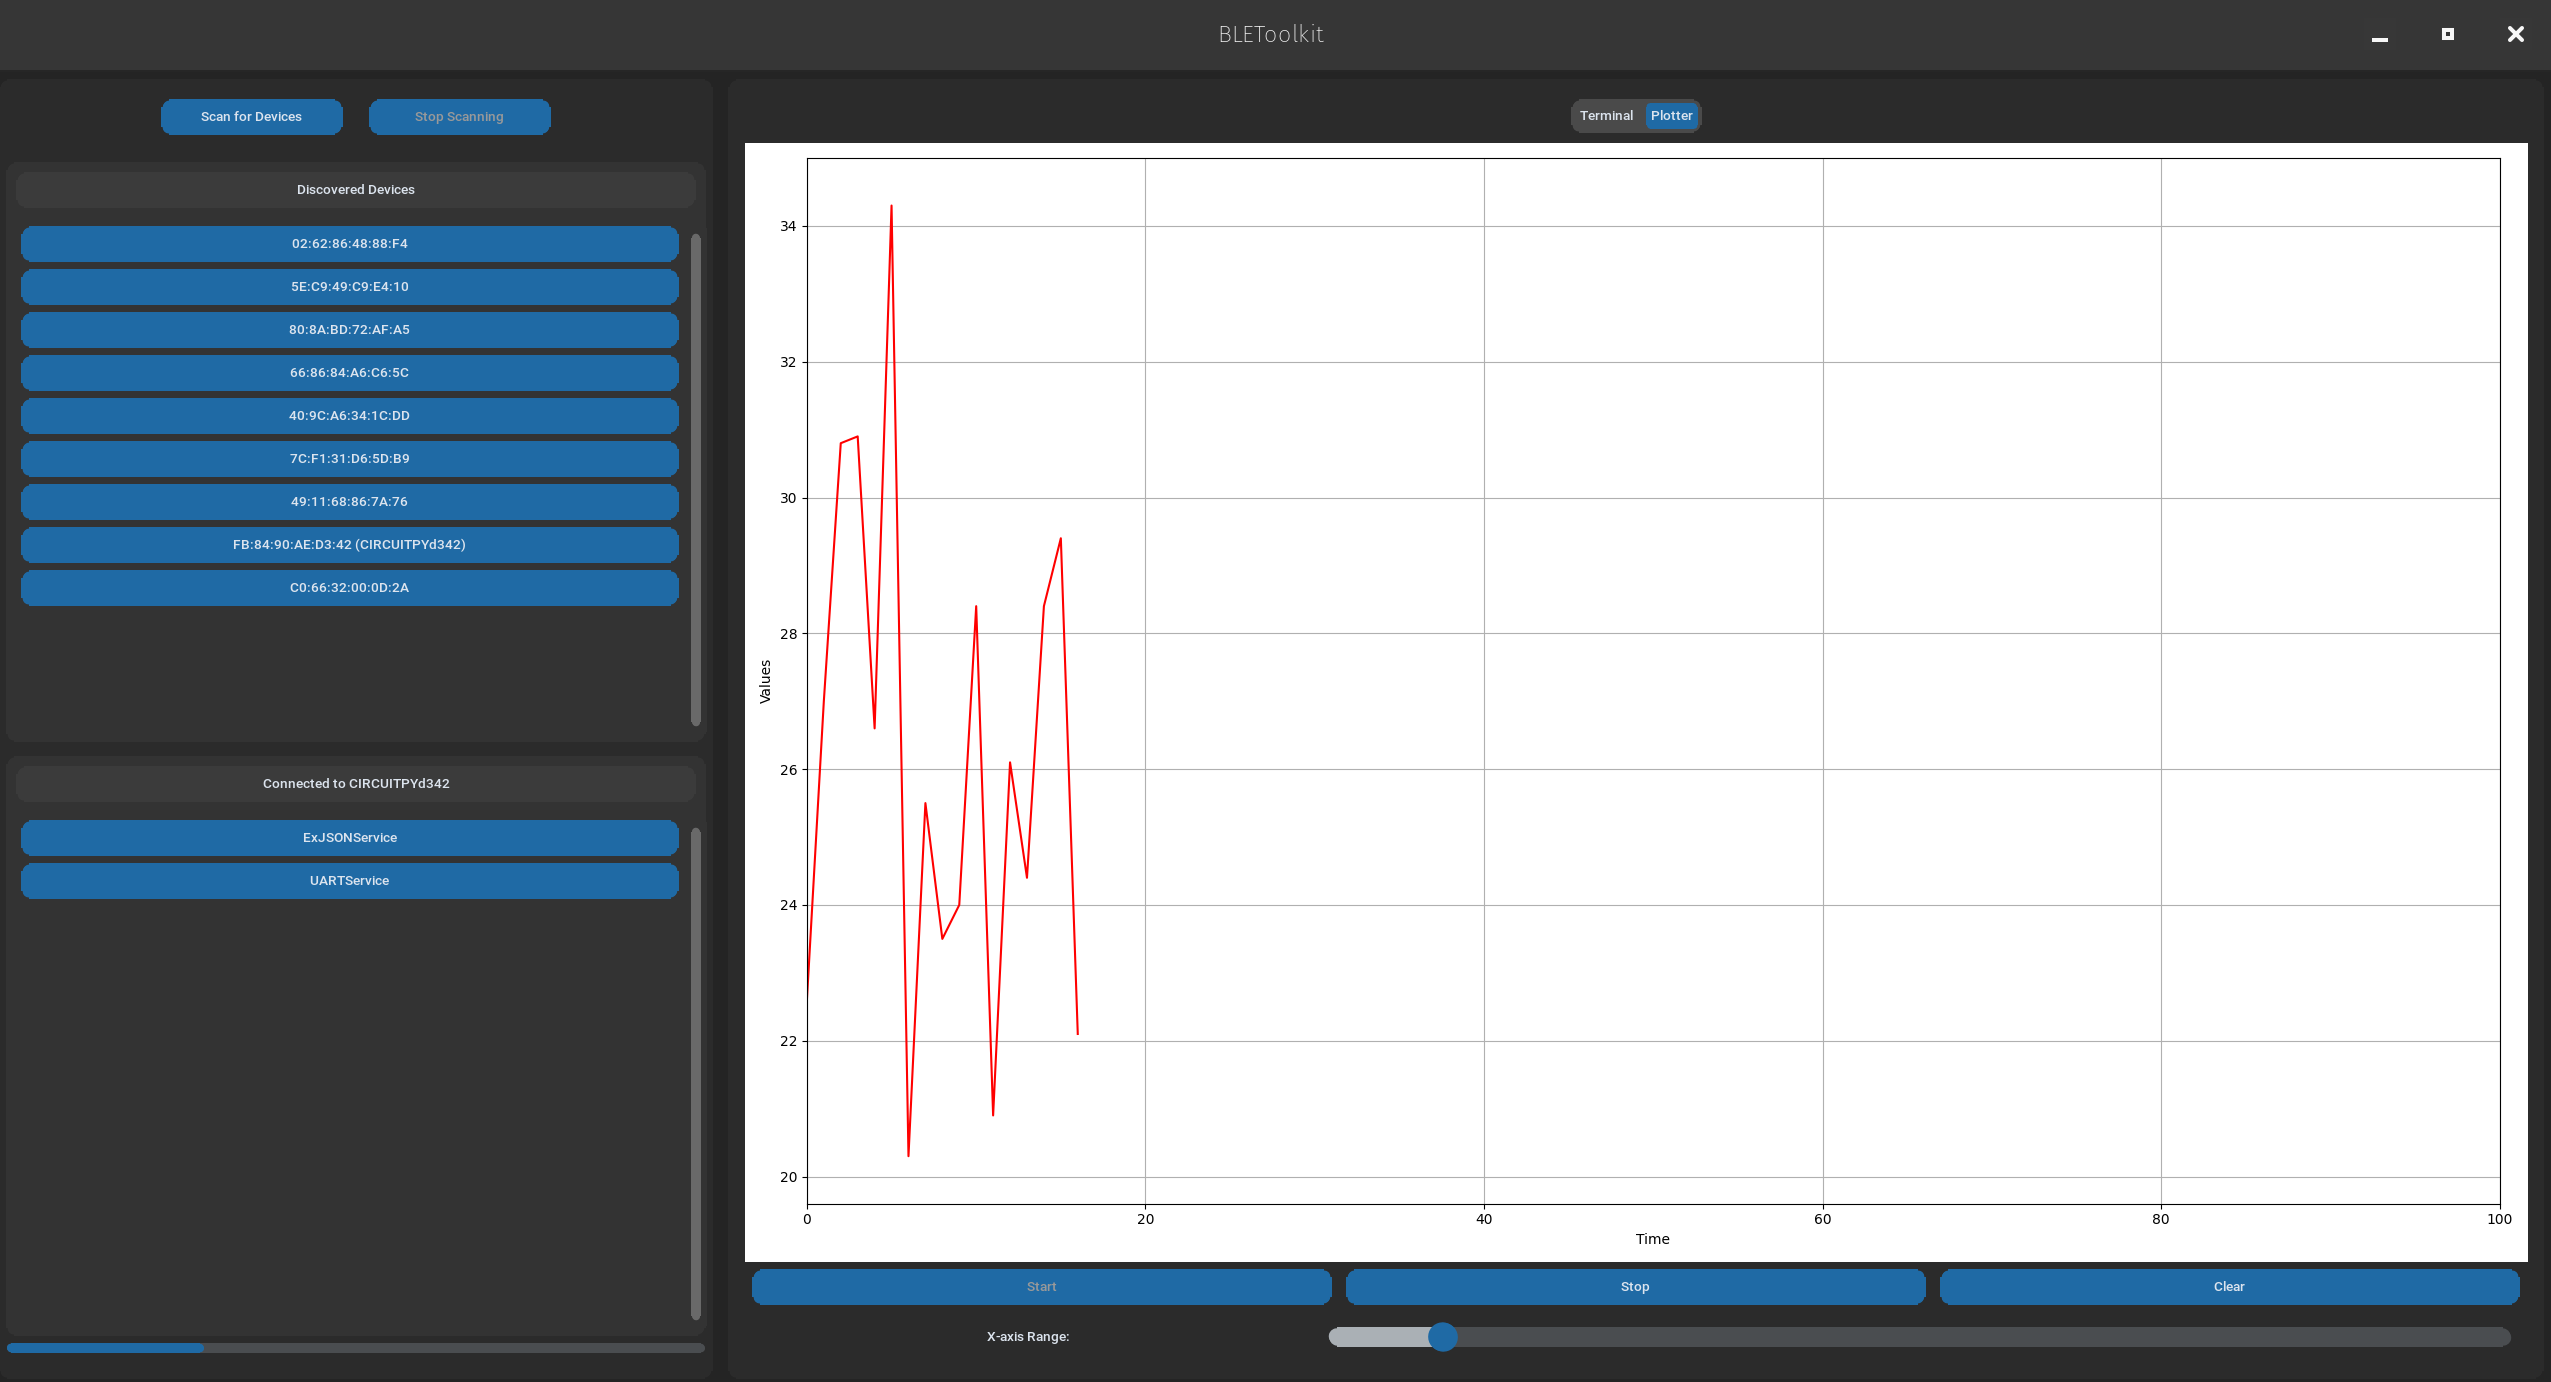
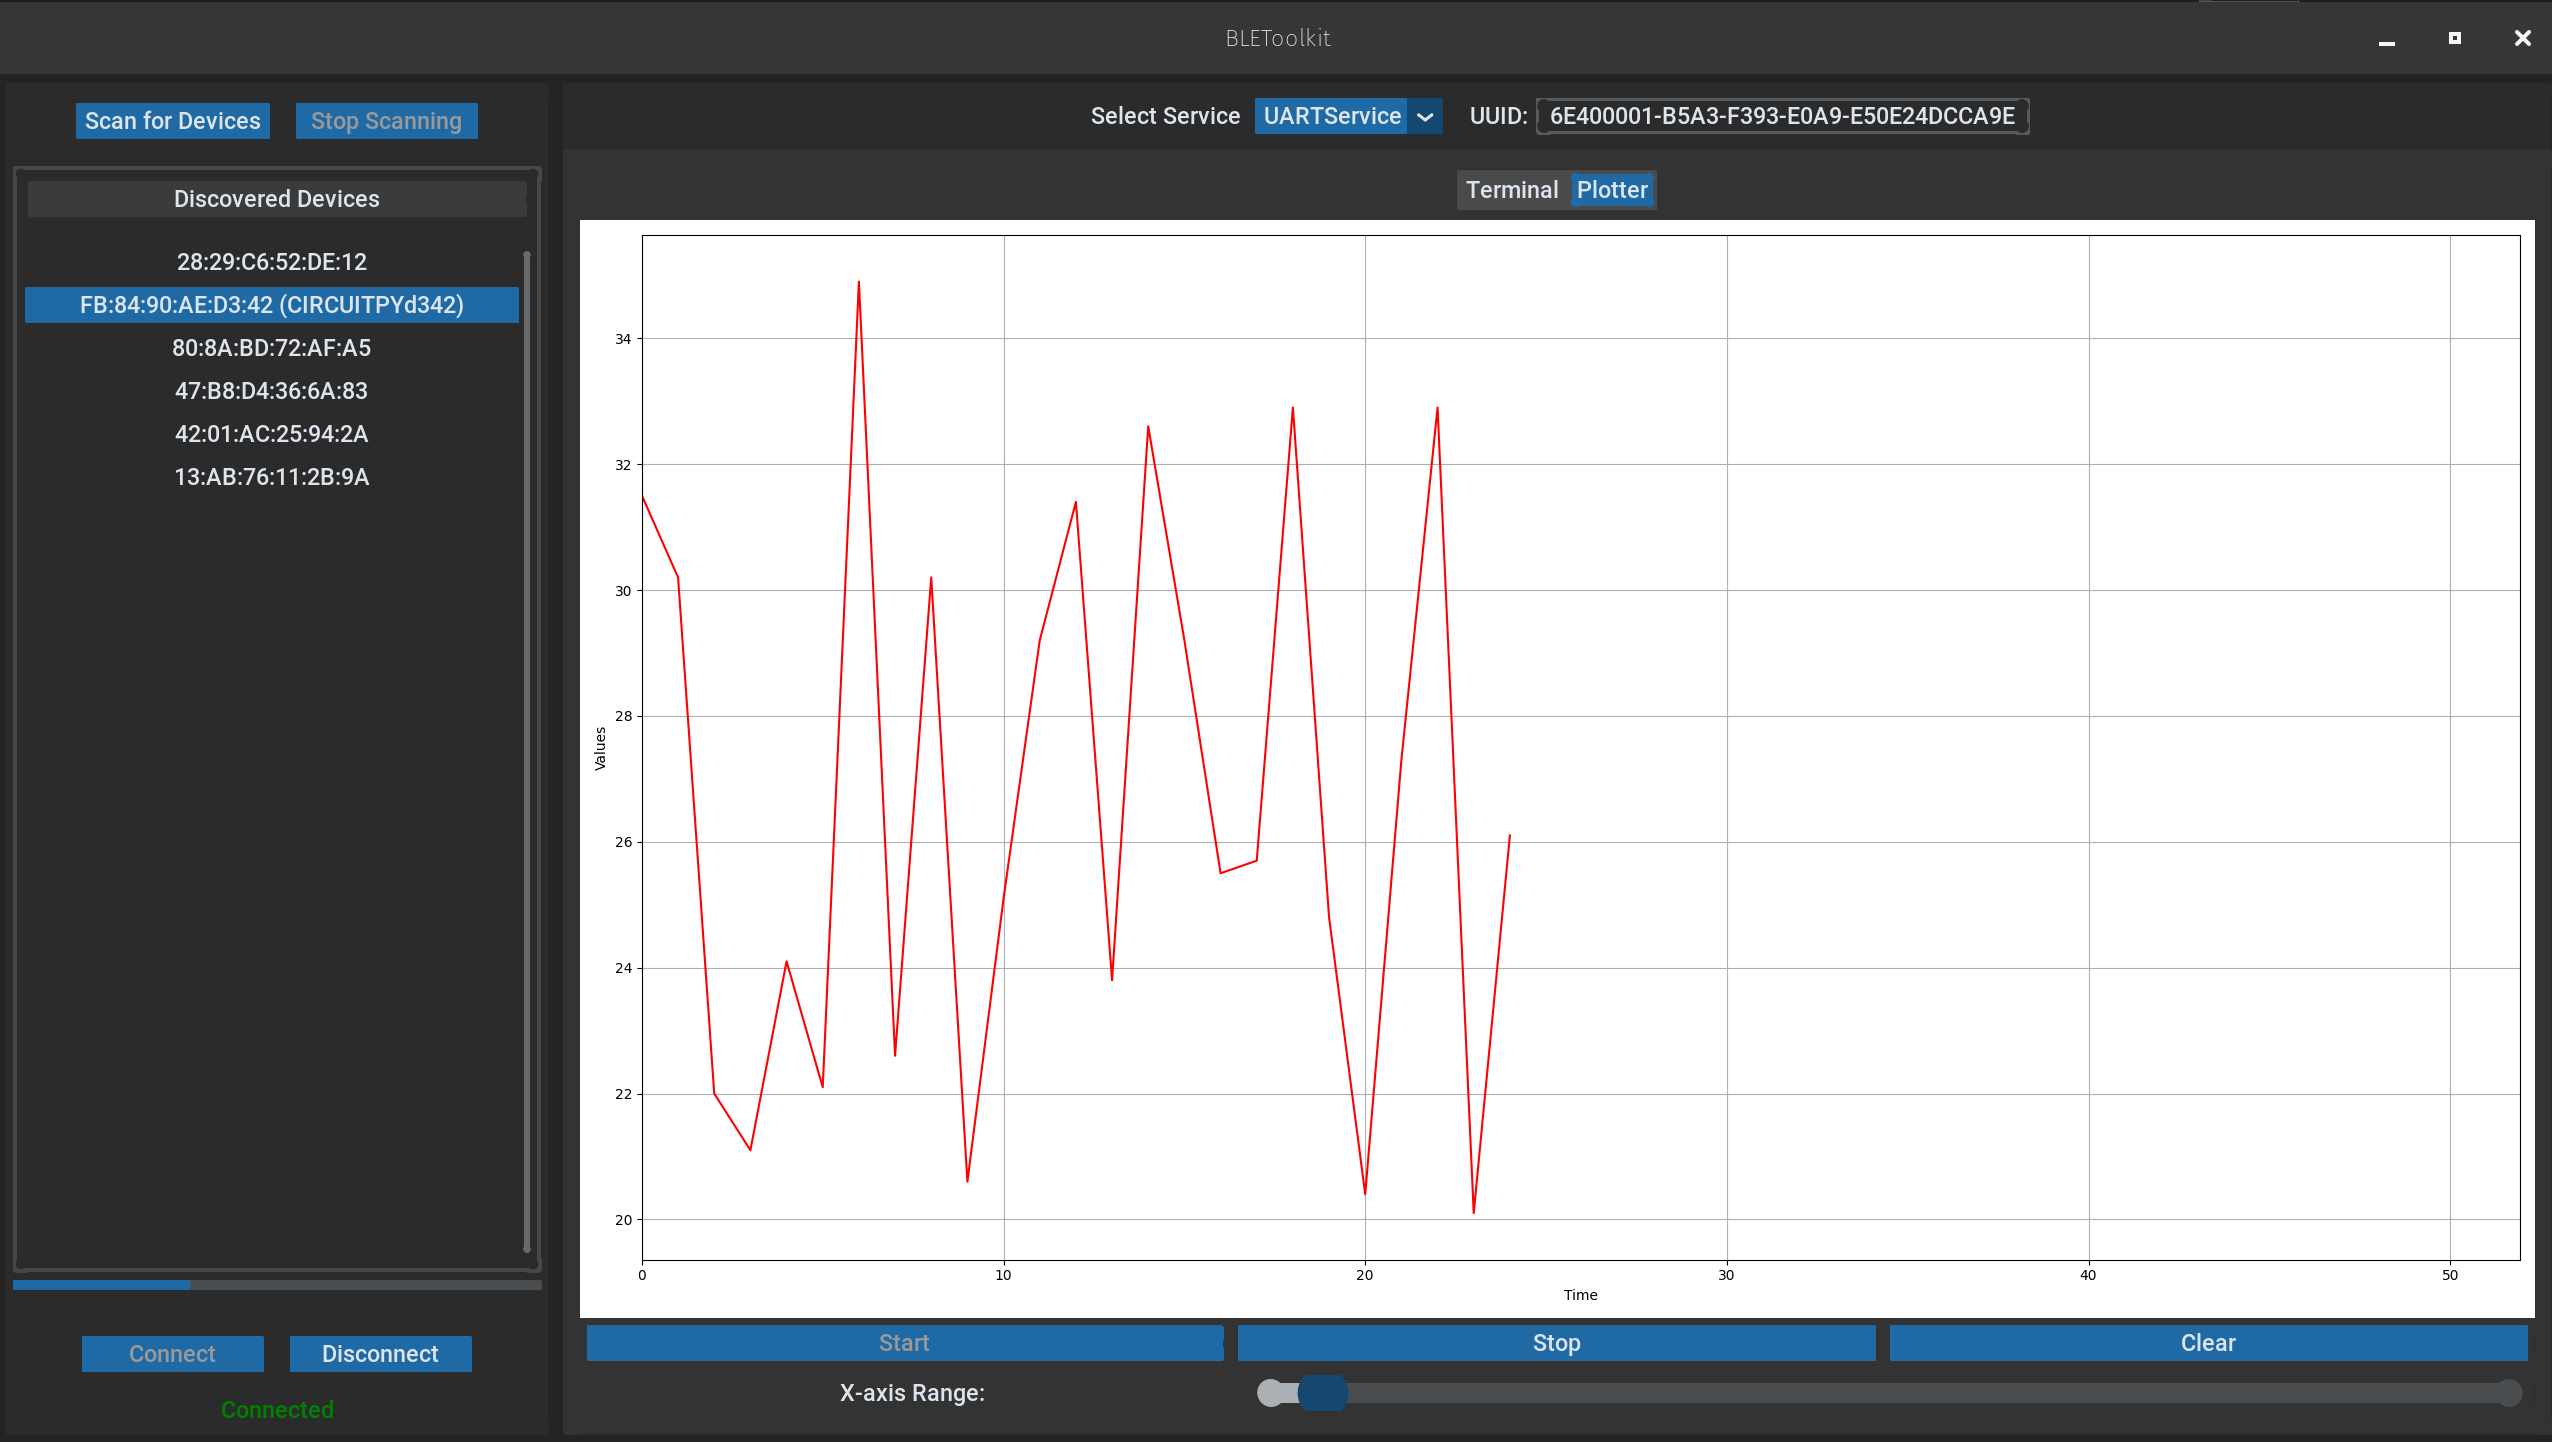
Refactored connection and service tabs functionalities
- improved thread handling
- updated user interface states during connection/disconnection

diff --git a/src/service_tabs.py b/src/service_tabs.py
@@ -1,8 +1,11 @@
 import customtkinter as ctk
+
+from src import SERVICE_REGISTER
 from src.utils import TRANSPARENT_COLOR, STD_PADDING
 from src.service_tabs_manager import ServiceTabsManager
 from typing import Dict
 from src.abstract_service import AbstractService
+from adafruit_ble import BLEConnection
 
 
 class ServicesBox(ctk.CTkFrame):
@@ -20,7 +23,6 @@ class ServicesBox(ctk.CTkFrame):
         service_select_label.grid(row=0, column=0, padx=STD_PADDING, sticky="w")
         self._service_options = ctk.CTkOptionMenu(master=select_frame, anchor="center", command=self.select_opt_cmd)
         self._service_options.set(value="")
-        self.update_services()
         self._service_options.grid(row=0, column=1, padx=STD_PADDING, sticky="w")
 
         uuid_label = ctk.CTkLabel(master=self, text="UUID:", anchor="w")
@@ -32,20 +34,30 @@ class ServicesBox(ctk.CTkFrame):
                                         fg_color=TRANSPARENT_COLOR, justify='center')
         self._uuid_entry.grid(padx=1, pady=1, sticky="nsew")
 
+        self.update_services()
+
     def update_services(self, services_dict: Dict[str, AbstractService] = None):
         if services_dict is None:
             services_dict = {}
-
         self._service_list = services_dict
         self._service_options.configure(values=self._service_list.keys())
 
-    def select_opt_cmd(self, selected_option: str):
-        if selected_option in self._service_list:
-            srv = self._service_list[selected_option]
-            self._update_entry(self._uuid_entry, srv.get_uuid().upper())
-            self._select_srv_cmd(srv)
+        if self._service_list:
+            default_value = list(self._service_list.keys())[0]
+            self._service_options.set(value=default_value)
+            self.select_opt_cmd(default_value)
+        else:
+            self._service_options.set(value="")
+            self._update_entry(self._uuid_entry)
 
-    def _update_entry(self, entry, text):
+    def select_opt_cmd(self, selected_option: str):
+        if selected_option in self._service_list.keys():
+            srv = self._service_list[selected_option]
+            self._select_srv_cmd(srv)
+            uuid = srv.get_uuid().upper()
+            self._update_entry(self._uuid_entry, uuid)
+
+    def _update_entry(self, entry, text=""):
         entry.configure(state="normal")
         entry.delete(0, ctk.END)
         entry.insert(0, text)
@@ -69,9 +81,6 @@ class ServiceTabs(ctk.CTkFrame):
         service_tab.pack(fill=ctk.BOTH, expand=True)
         self._service_tabs_manager = ServiceTabsManager(master=service_tab)
 
-    def update_services(self, services_dict: Dict[str, AbstractService] = None):
-        self._services_box.update_services(services_dict)
-
     def _select_service_cmd(self, service: AbstractService):
         if not isinstance(service, AbstractService):
             print("Error: Provided service is not an instance of AbstractService")
@@ -79,5 +88,14 @@ class ServiceTabs(ctk.CTkFrame):
         else:
             self._service_tabs_manager.select_service(service)
 
-    def quit_(self):
-        self._service_tabs_manager.quit()
+    def connect(self, connection: BLEConnection):
+        services_dict: Dict[str, AbstractService] = {}
+        for srv in SERVICE_REGISTER.keys():
+            if srv in connection:
+                print("Service found: " + str(srv))
+                services_dict[srv.__name__] = connection[srv]
+        self._services_box.update_services(services_dict)
+
+    def disconnect(self):
+        self._services_box.update_services()
+        self._service_tabs_manager.quit_()

diff --git a/src/service_tabs_manager.py b/src/service_tabs_manager.py
@@ -21,6 +21,7 @@ class ServiceTabsManager:
         return service in self._service_threads and self._service_threads[service][0].is_alive()
 
     def _switch_service_tab(self, service: AbstractService):
+
         with self._thread_lock:
             self._current_service_tab.grid_remove()
             self._current_service_tab = self._service_threads[service][1]
@@ -41,22 +42,30 @@ class ServiceTabsManager:
                         data = service.read()
                         if data:
                             self._master.after(0, lambda d=data: service_tab.update_data(d))
-                        time.sleep(1)
+                        time.sleep(1)  # TODO: add to doc
                     except Exception as e:
-                        print(f"ServiceTabsManager Error during updating data: {e}")
+                        print(f"ServiceTabsManager: Error during updating data: {e}")
 
             running_flag = lambda: self._running
 
             with self._thread_lock:
-                self._service_threads[service] = (Thread(target=task, args=(running_flag,), daemon=True), service_tab, running_flag)
+                thread = Thread(target=task, args=(running_flag,), daemon=True)
+                self._service_threads[service] = (thread, service_tab, running_flag)
                 self._service_threads[service][0].start()
 
         if need_switch:
             self._switch_service_tab(service)
 
-    def quit(self):
+    def quit_(self):
         if self._service_threads:  # Check if it is not empty
-            with self._thread_lock:
+            # with self._thread_lock:
                 self._running = False  # Set the flag to stop all threads
                 for service, (thread, service_tab, running_flag) in self._service_threads.items():
                     thread.join()  # Wait for each thread to finish
+                    service_tab.grid_remove()  # Remove the service tab from the grid
+                    service_tab.destroy()  # Destroy the frame to free up resources
+
+                self._service_threads.clear()  # Clear the dictionary of service threads
+                self._current_service_tab = AbstractServiceTab(master=self._master)
+                self._current_service = None
+                self._service_threads = {}

diff --git a/src/connection_tab.py b/src/connection_tab.py
@@ -85,10 +85,11 @@ class DevicesBox(CTkListbox):
 
 
 class ConnectionTab(ctk.CTkFrame):
-    def __init__(self, master, services_cmd, **kwargs):
+    def __init__(self, master, service_connect_command, service_disconnect_command, **kwargs):
         super().__init__(master, **kwargs)
         self.grid_columnconfigure(0, weight=1)
-        self._services_cmd = services_cmd
+        self._srv_connect_cmd = service_connect_command
+        self._srv_disconnect_cmd = service_disconnect_command
 
         self._devices = defaultdict(lambda: {'last_seen': 0.0, 'advertisements': Advertisement})
         self._scanning: bool = False
@@ -173,7 +174,7 @@ class ConnectionTab(ctk.CTkFrame):
             if self._current_connection and self._current_connection.connected:
                 self._message_label.update_message(message="Connected", color="green")
                 # print("Connected")
-                self._services_cmd(self._current_connection)
+                self._srv_connect_cmd(self._current_connection)
             else:
                 self._message_label.update_message(message="Not Connected", color="red", timeout=MESSAGE_TIMEOUT)
                 # print(f"{self._selected_advert.address.string} not Connected")
@@ -182,10 +183,13 @@ class ConnectionTab(ctk.CTkFrame):
             # print(f"{self._selected_advert.address.string} not connectable.")
 
     def _disconnect_cmd(self):
+        self._message_label.update_message(message="Disconnecting ...", color="white")
         self._disconnect_button.configure(state=ctk.DISABLED)
-        self._message_label.update_message(message="Disconnecting ...", color="white")  # FIXME
+        self._srv_disconnect_cmd()
         self._disconnect_current_connection()
         self._connect_button.configure(state=ctk.NORMAL)
+        self._message_label.update_message(message="Disconnected", color="white",
+                                           timeout=MESSAGE_TIMEOUT, clear_after=True)
 
     def _scan_for_devices_background(self):
         while True:

diff --git a/src/main.py b/src/main.py
@@ -25,28 +25,24 @@ class BLEToolkitApp(ctk.CTk):
         self.grid_columnconfigure(1, weight=10)
         self.grid_rowconfigure(0, weight=1)
 
-        self.connection_tab = ConnectionTab(master=self, services_cmd=self.update_services_cmd)
-        self.connection_tab.grid_columnconfigure(0, weight=1)
-        self.connection_tab.grid_rowconfigure(0, weight=1)
-        self.connection_tab.grid(row=0, column=0, padx=STD_PADDING, pady=STD_PADDING, sticky="nsew")
-
         self.service_tabs = ServiceTabs(master=self)
         self.service_tabs.grid_columnconfigure(0, weight=1)
         self.service_tabs.grid_rowconfigure(0, weight=1)
         self.service_tabs.grid(row=0, column=1, padx=STD_PADDING, pady=STD_PADDING, sticky="nsew")
 
+        self.connection_tab = ConnectionTab(master=self,
+                                            service_connect_command=self.service_tabs.connect,
+                                            service_disconnect_command=self.service_tabs.disconnect)
+        self.connection_tab.grid_columnconfigure(0, weight=1)
+        self.connection_tab.grid_rowconfigure(0, weight=1)
+        self.connection_tab.grid(row=0, column=0, padx=STD_PADDING, pady=STD_PADDING, sticky="nsew")
+
     def closing_handler(self):
-        self.service_tabs.quit_()
+        self.service_tabs.disconnect()
         self.connection_tab.quit_()
         self.quit()
 
-    def update_services_cmd(self, connection: BLEConnection):
-        services_dict: Dict[str, AbstractService] = {}
-        for srv in SERVICE_REGISTER.keys():
-            if srv in connection:
-                print("Service found: " + str(srv))
-                services_dict[srv.__name__] = connection[srv]
-        self.service_tabs.update_services(services_dict)
+
 
 
 def initialize_app_settings():
